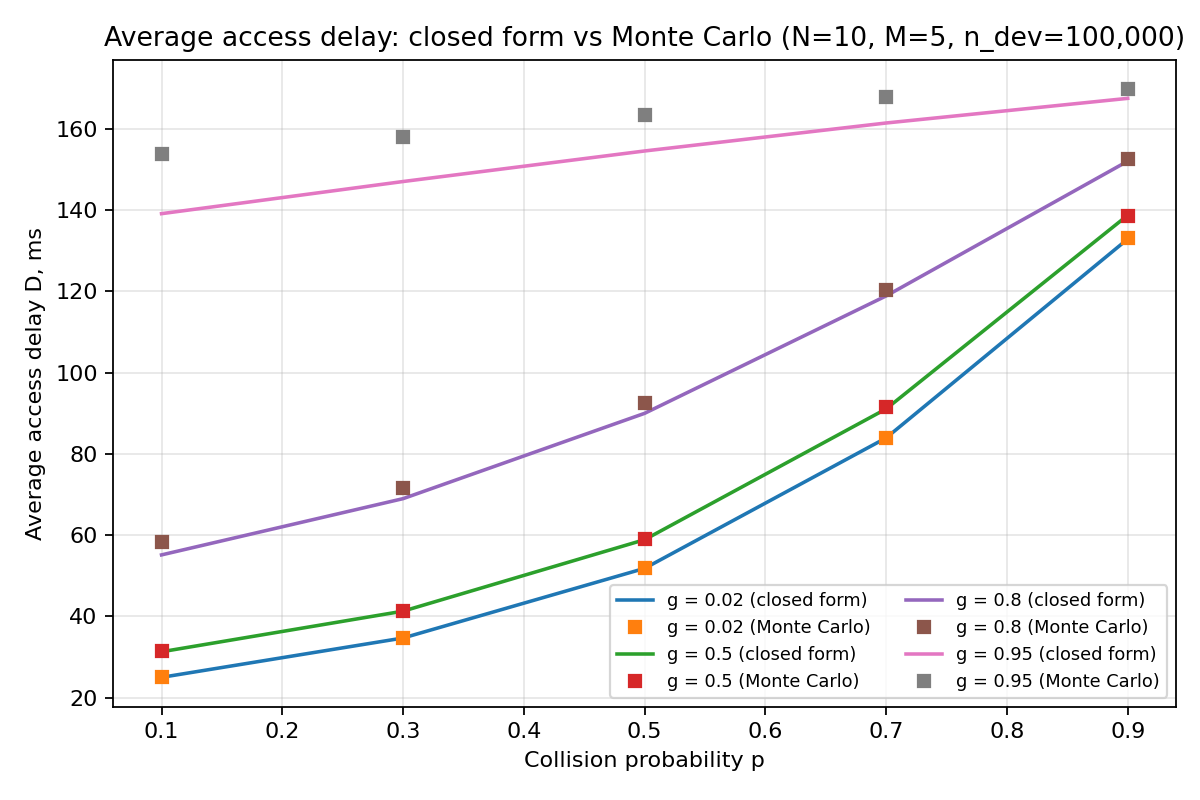
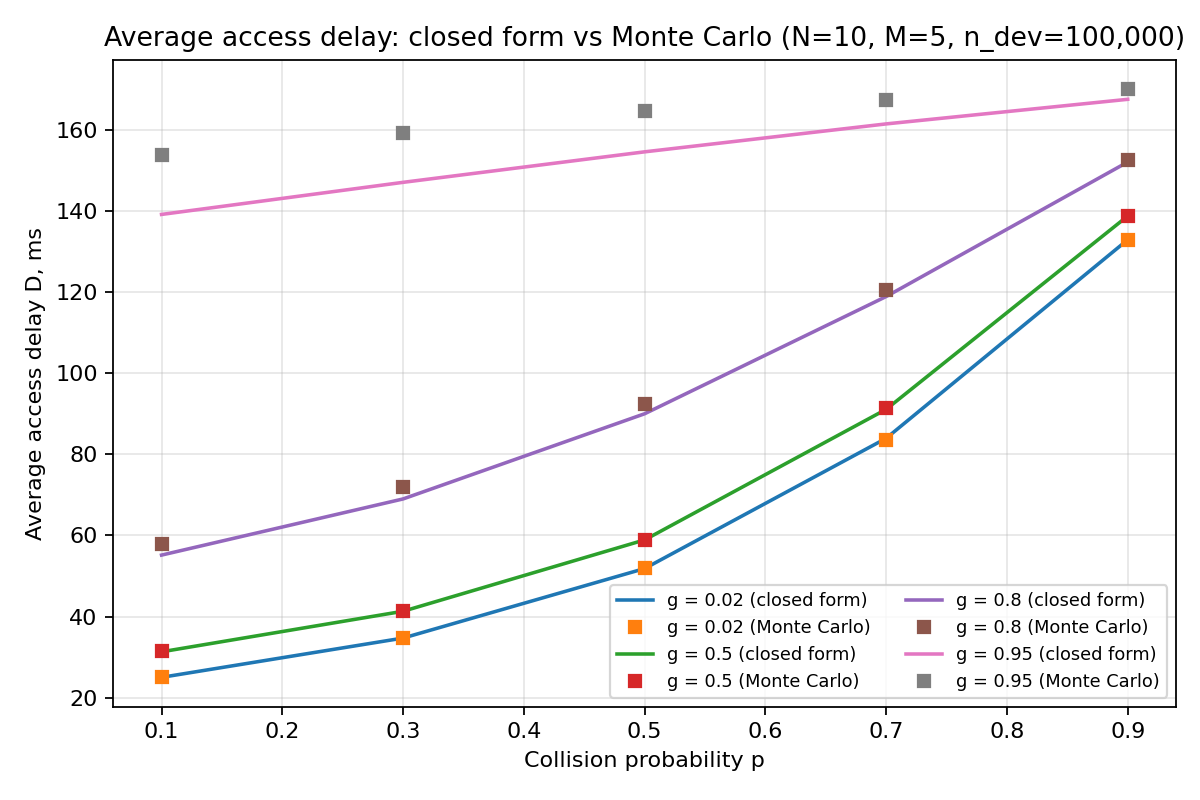
feat(model): add Eq.(8) mapping RACH intensity gamma to collision prob p
- p_from_gamma(gamma): p = 1 - exp(-gamma / (54 * 200)), 54 contention
  preambles x 200 RACH opps/s (PRACH config 6), per paper Sec. 4
- sanity check: gamma = 25000 1/s -> p ~= 0.901, matching the paper's
  stated overload point
- enables gamma-domain experiments and the time-varying p(t) required
  by the burst-arrival extension (Wei 2015 direction)

diff --git a/Mission1/cakeisalie_simulation_cakeisalie_reporduce_RACH_baselinemodel_ccis2016.py b/Mission1/cakeisalie_simulation_cakeisalie_reporduce_RACH_baselinemodel_ccis2016.py
@@ -116,6 +116,9 @@ def D_closed(p: float, g: float, N: int = 9, M: int = 4,
     t4 = (d1 + d3 + d4) * (1.0 - C ** (N + 1))
     return (t1 + t2 + t3 + t4) / P_omega(p, g)
 
+def mc_sigma(p: float, n: int) -> float:
+    """蒙特卡洛成功率估计的理论标准差: sigma = sqrt(p(1-p)/n)"""
+    return (p * (1.0 - p) / n) ** 0.5
 
 # main() 保护
 def main() -> None:
@@ -126,6 +129,7 @@ def main() -> None:
     d1, d2, d3, d4 = 10.5, 20.0, 5.0, 6.0
     PS = [0.1, 0.3, 0.5, 0.7, 0.9]
     GS = [0.02, 0.5, 0.8, 0.95]
+    # 扫描循环内, 每个网格点:
 
     #verification grid sweep
     theory = numpy.zeros((len(GS), len(PS)))
@@ -133,6 +137,7 @@ def main() -> None:
     theory_d = numpy.zeros((len(GS), len(PS)))
     sim_d = numpy.zeros_like(theory_d)
     t0 = time.time()
+    
     for i, g in enumerate(GS):
         for j, p in enumerate(PS):
             theory[i, j] = P_omega(p, g)
@@ -141,9 +146,12 @@ def main() -> None:
                 p, g, N, M, number_devices, d1, d2, d3, d4)
             sim[i, j] = result.success_probability
             sim_d[i, j] = result.delay
+            sigma = mc_sigma(theory[i, j], number_devices)
+            ok = "sigma Accepet" if abs(theory[i, j] - sim[i, j]) <= 3 * sigma else "sigma Alert"
             print(f"p={p}, g={g}: P theory={theory[i,j]:.4f} MC={sim[i,j]:.4f} "
                   f"|dP|={abs(theory[i,j]-sim[i,j]):.5f} | "
-                  f"D theory={theory_d[i,j]:.1f} MC={sim_d[i,j]:.1f} ms")
+                  f"D theory={theory_d[i,j]:.1f} MC={sim_d[i,j]:.1f} ms"
+                  f"|dP|={abs(theory[i,j]-sim[i,j]):.5f} 3σ={3*sigma:.5f} {ok}")
     print(f"grid sweep finished in {time.time() - t0:.1f}s")
 
     #draw curve plot
